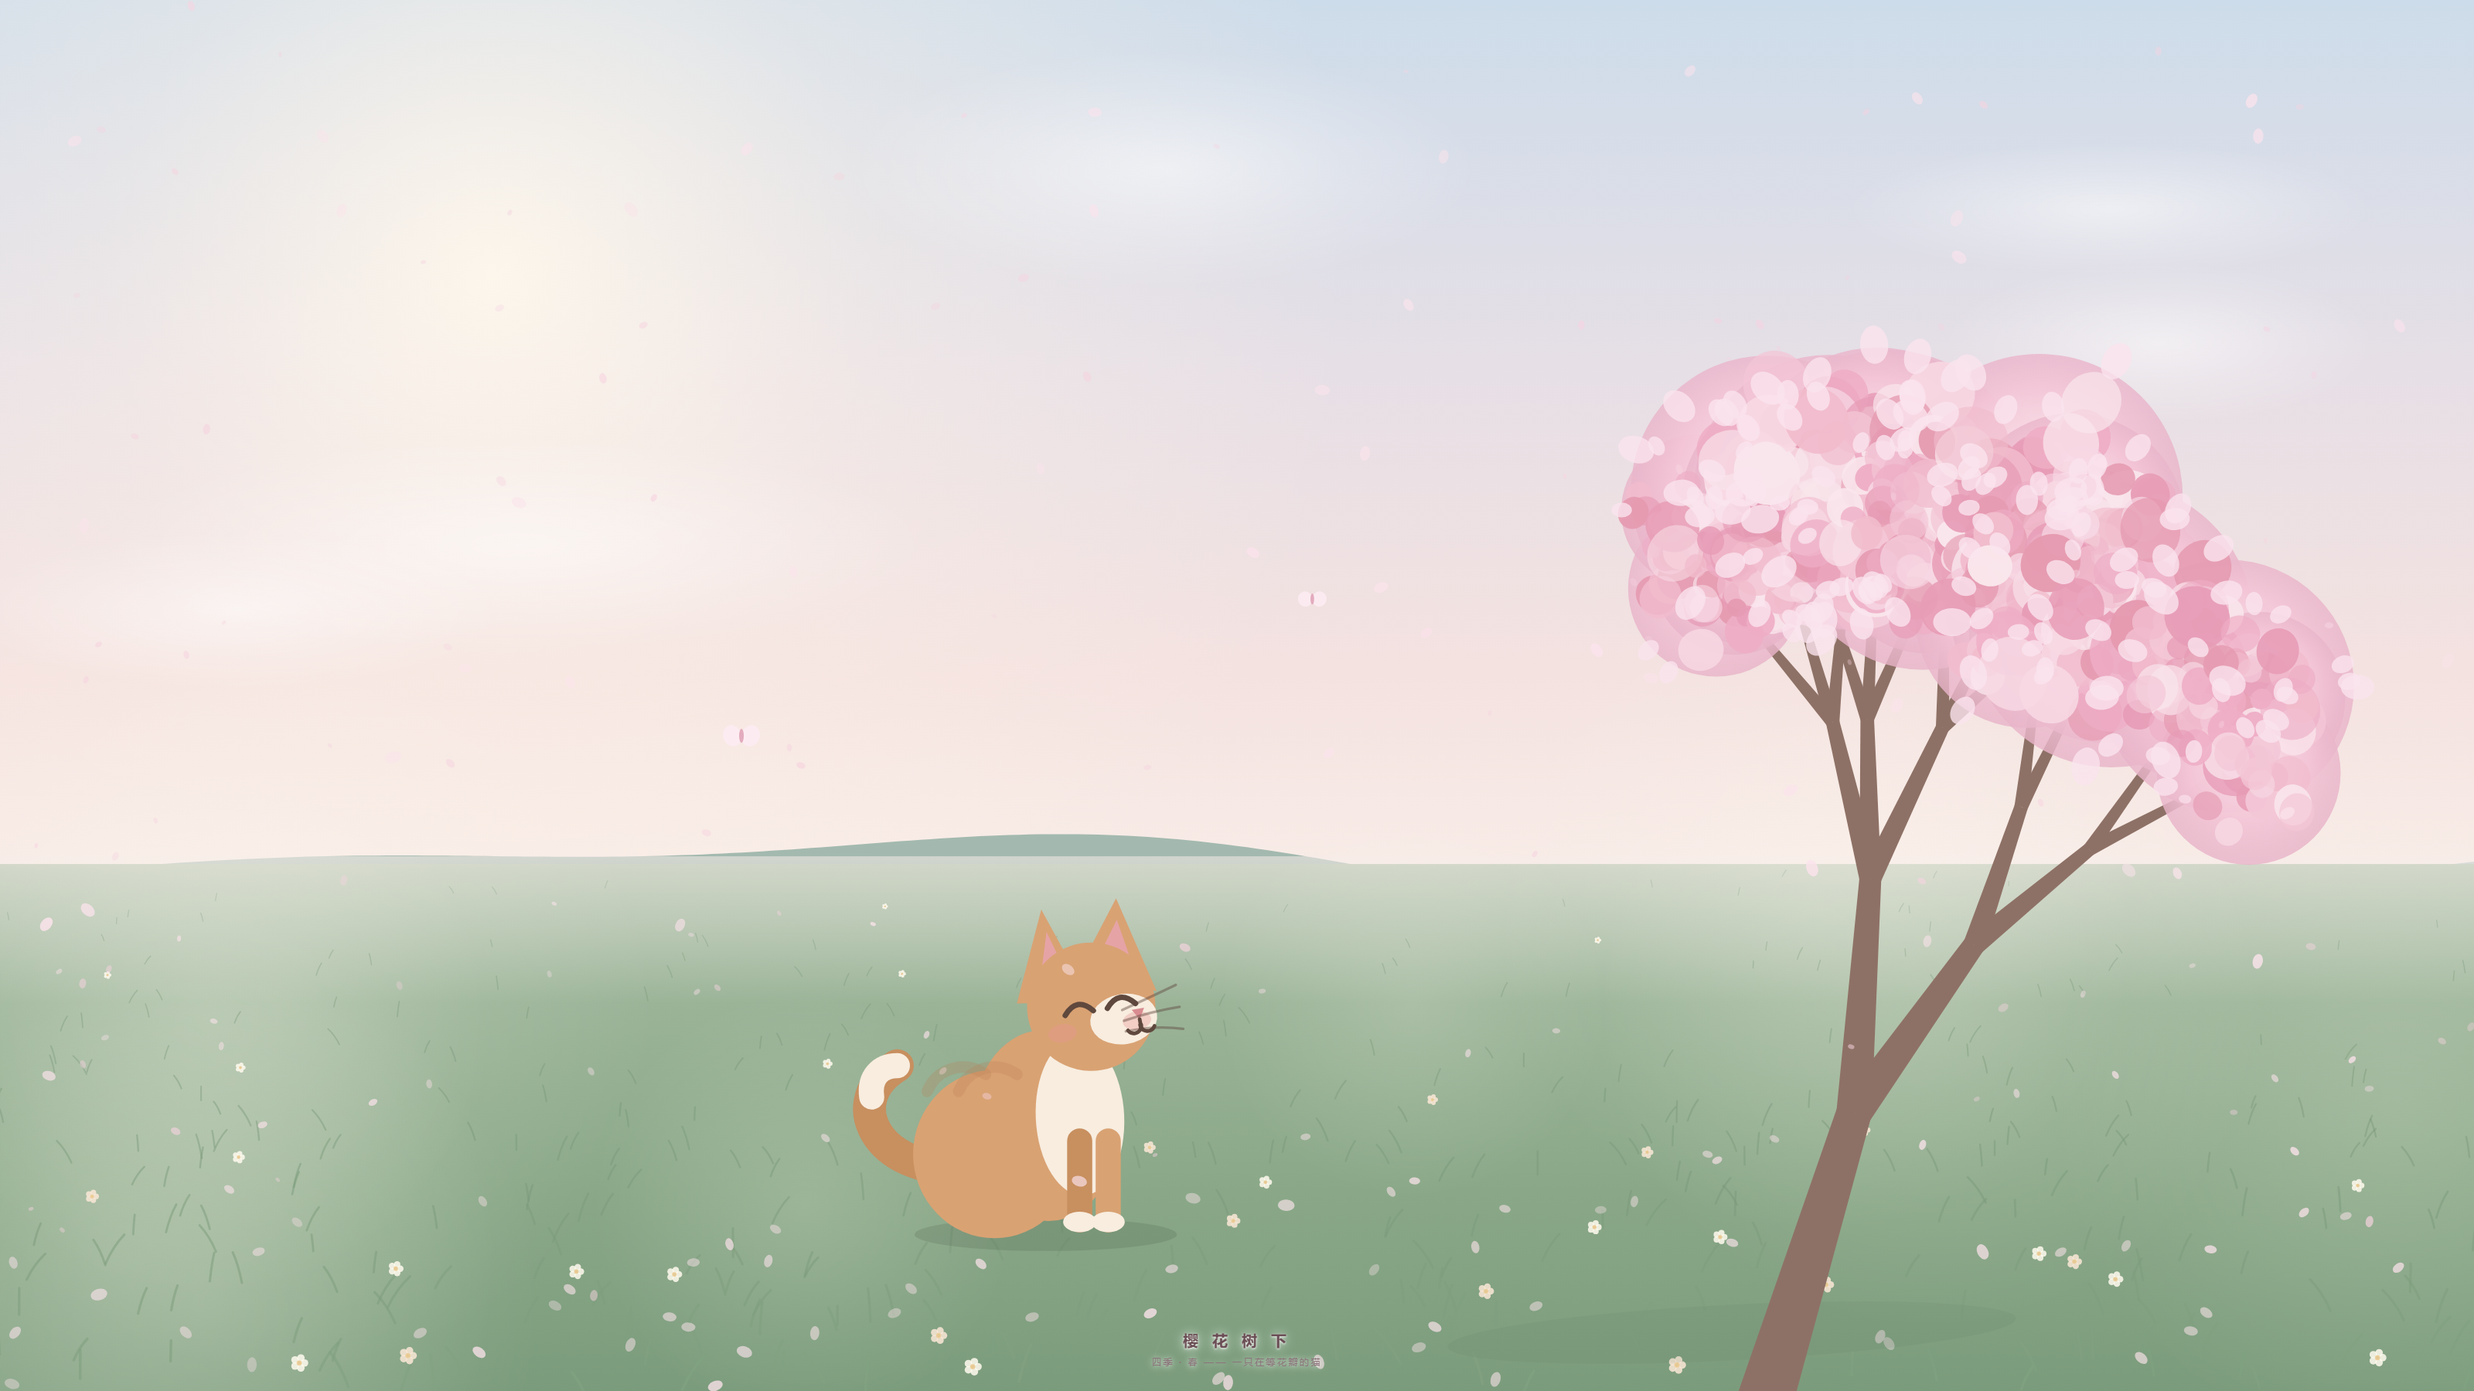
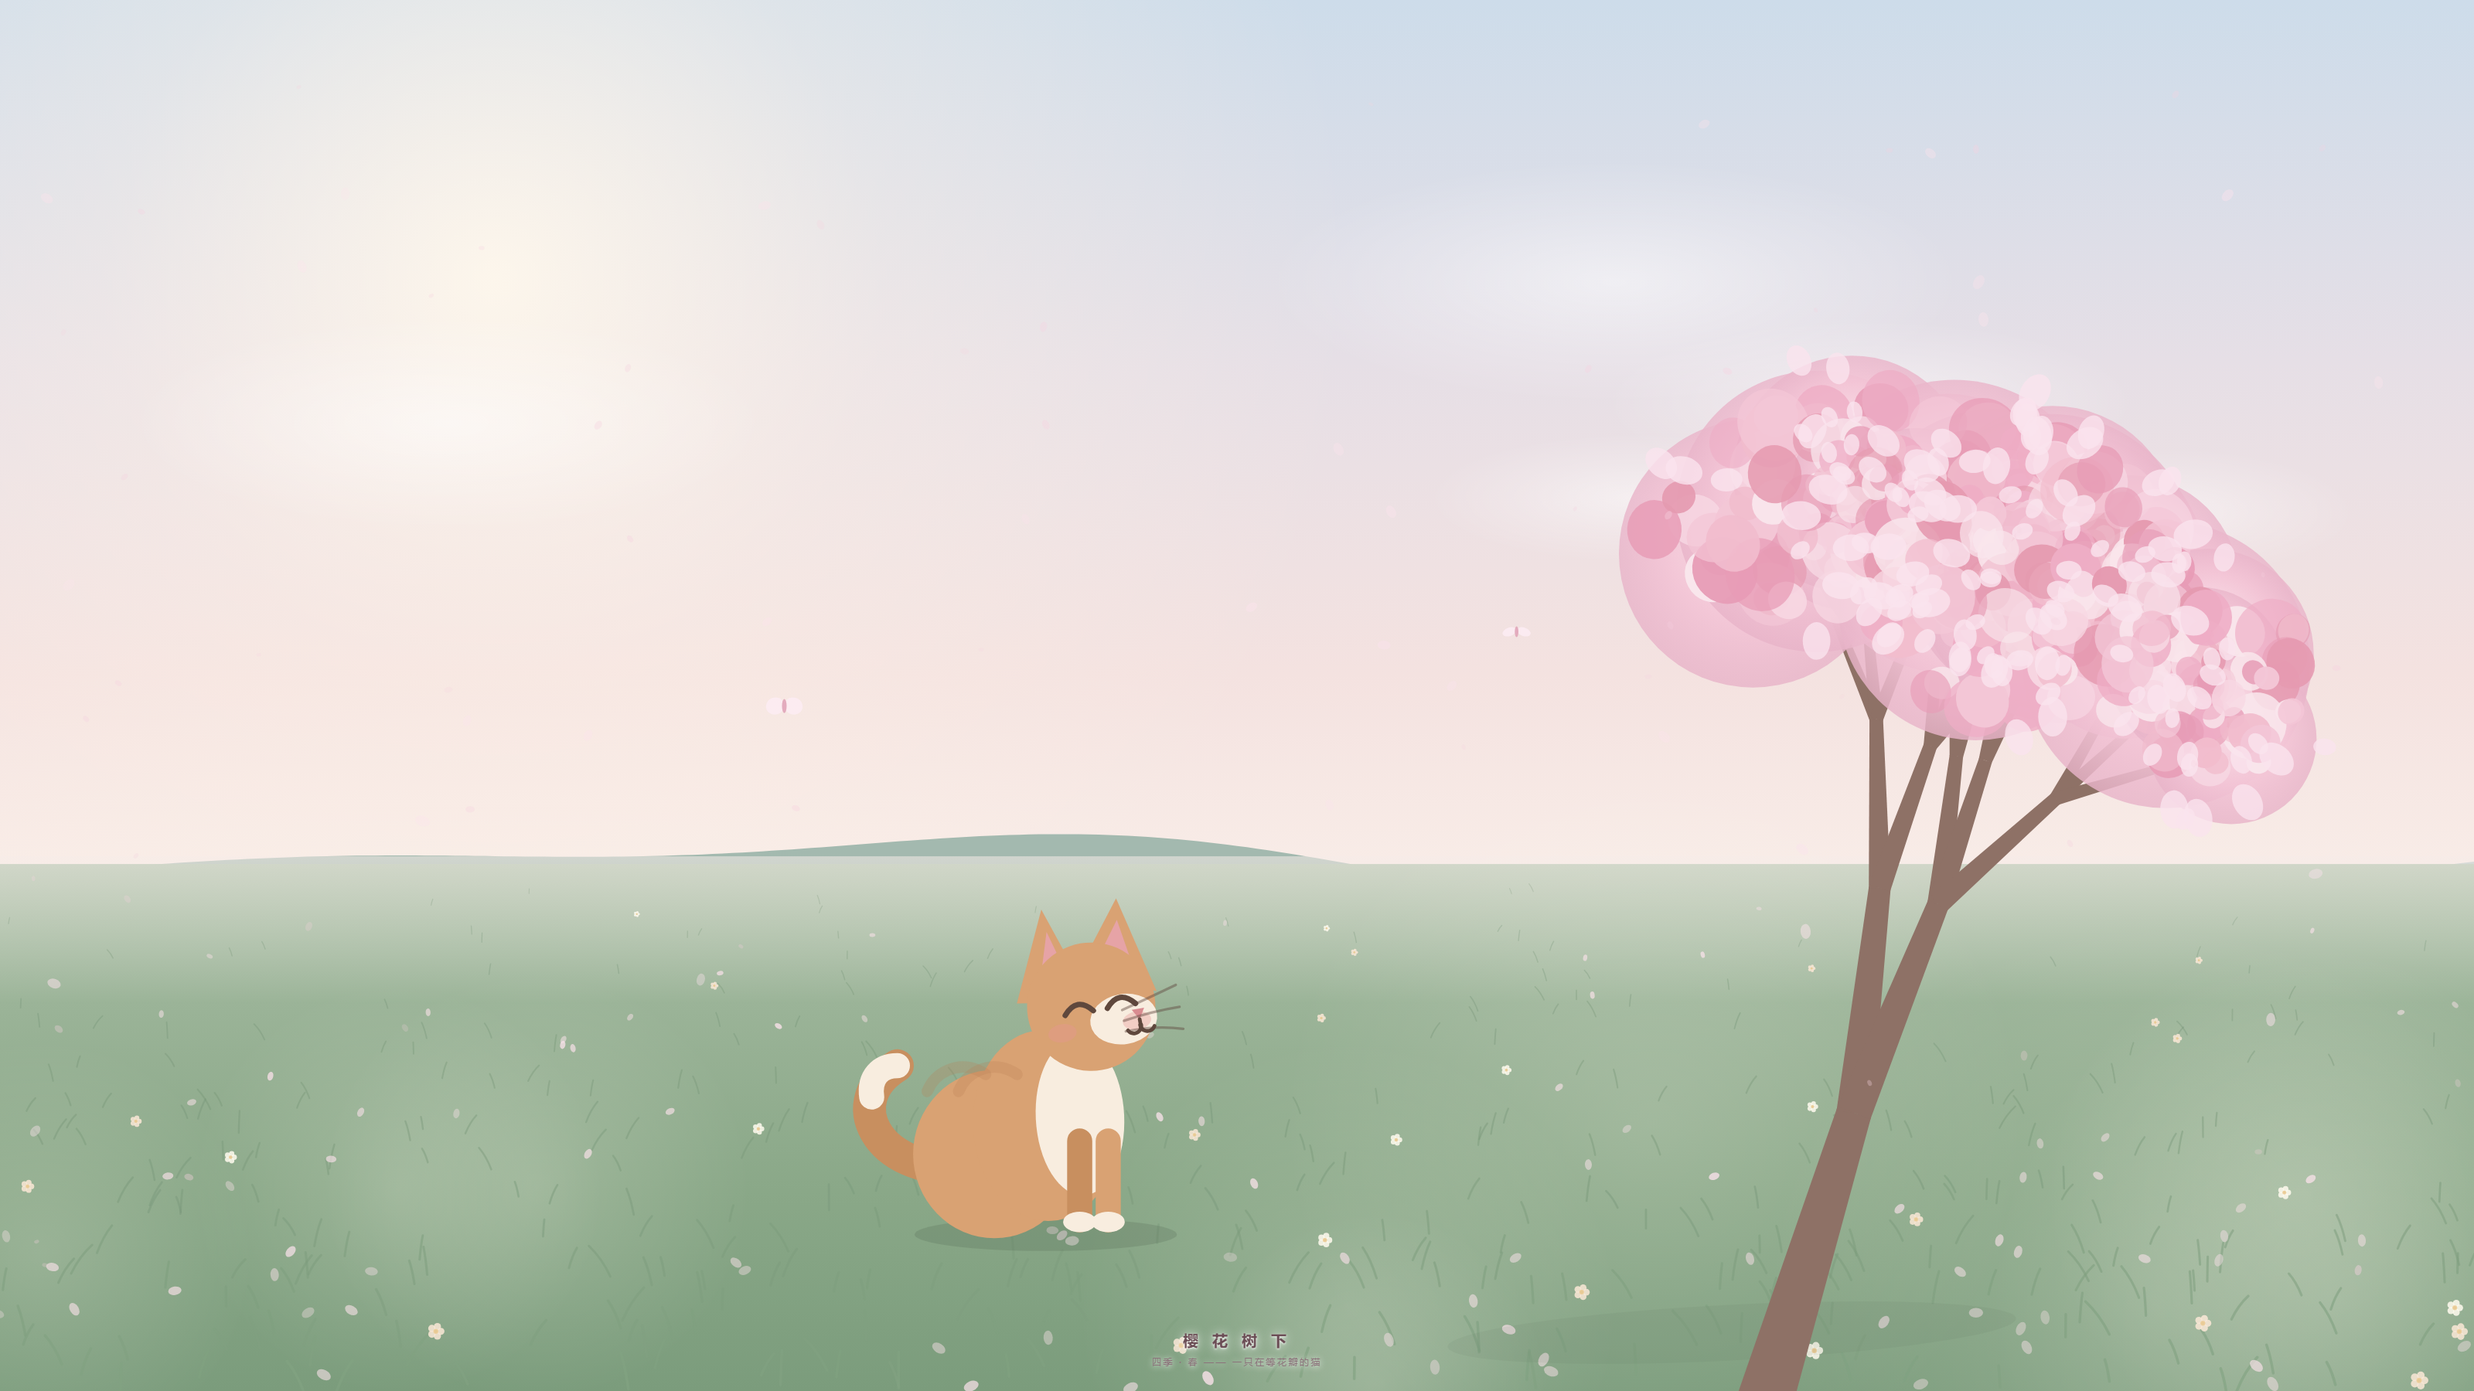
🐛 修掉「整幅画在抖」的种子 bug；🌸🐸 两幅新画动效调柔
静态场景改用固定种子 SCENE_SEED：原来「画完再记种子」，而树的分枝递归每帧消耗的随机数个数不同，种子逐帧漂移 → 云/草/光斑/树冠每帧重新随机一遍。逐像素对比：在动像素 18.63% → 0.14%。另：花瓣 150→95 片、落速与自转减半、透明度降到 0.36~0.66；水光 46→20 颗、亮度砍半、呼吸放慢；蜻蜓扇翅 4.8→1.0 次/秒、飞行减速 40%。两张 PNG + 预览图重出，readme 已记录。

diff --git a/小鲸鱼的艺术作品/cherry-cat-spring.html b/小鲸鱼的艺术作品/cherry-cat-spring.html
@@ -441,35 +441,36 @@ function makePetals(n) {
     petals.push({
       x: rndBetween(-W * 0.05, W * 1.05),
       y: rndBetween(-H * 0.1, H * 0.9),
-      r: (5 + t * 13),
+      r: (5 + t * 11),
       t: t,
-      vy: (16 + t * 46),
-      sway: rndBetween(20, 70),
+      vy: (11 + t * 24),                                // 原来 16+t*46，落太快
+      sway: rndBetween(16, 46),                         // 原来 20~70，横向晃得太开
       phase: rndBetween(0, Math.PI * 2),
-      spin: rndBetween(-0.7, 0.7),
+      spin: rndBetween(-0.18, 0.18),                    // 原来 ±0.7，自转快得像风扇
       rot: rndBetween(0, Math.PI * 2),
-      a: 0.45 + rnd() * 0.45
+      a: 0.36 + rnd() * 0.30                            // 原来 0.45~0.90，太亮
     });
   }
 }
-makePetals(150);
+makePetals(95);   // 原来 150 片，满屏都在转，改稀一点
 
 function petalBurst(x, y) {
-  for (let i = 0; i < 46; i++) {
+  // 点一下的「花瓣雨」也收一收：少一点、小一点、慢一点、淡一点
+  for (let i = 0; i < 30; i++) {
     petals.push({
-      x: x + rndBetween(-30, 30),
-      y: y + rndBetween(-20, 20),
-      r: rndBetween(8, 22),
+      x: x + rndBetween(-26, 26),
+      y: y + rndBetween(-16, 16),
+      r: rndBetween(7, 16),
       t: 1,
-      vy: rndBetween(30, 80),
-      sway: rndBetween(30, 90),
+      vy: rndBetween(18, 44),
+      sway: rndBetween(18, 48),
       phase: rndBetween(0, Math.PI * 2),
-      spin: rndBetween(-1.2, 1.2),
+      spin: rndBetween(-0.30, 0.30),
       rot: rndBetween(0, Math.PI * 2),
-      a: 0.5 + rnd() * 0.5
+      a: 0.38 + rnd() * 0.30
     });
   }
-  if (petals.length > 420) petals.splice(0, petals.length - 420);
+  if (petals.length > 280) petals.splice(0, petals.length - 280);
 }
 
 function drawPetals(dt, time) {
@@ -478,11 +479,11 @@ function drawPetals(dt, time) {
     p.y += p.vy * dt;
     p.rot += p.spin * dt;
     if (p.y > H + 40) { p.y = -30; p.x = rndBetween(-W * 0.05, W * 1.05); }
-    const x = p.x + Math.sin(time * 0.0009 + p.phase) * p.sway * 0.5;
+    const x = p.x + Math.sin(time * 0.0007 + p.phase) * p.sway * 0.45;
     ctx.save();
     ctx.translate(x, p.y);
     ctx.rotate(p.rot);
-    ctx.globalAlpha = p.a * (0.55 + p.t * 0.45);
+    ctx.globalAlpha = p.a * (0.45 + p.t * 0.40);
     ctx.fillStyle = p.t > 0.55 ? '#fbe3ec' : '#f6d3e0';
     ctx.beginPath();
     ctx.ellipse(0, 0, p.r * 0.62, p.r * 0.42, 0, 0, Math.PI * 2);
@@ -502,13 +503,13 @@ function drawFlies(time) {
   for (const f of flies) {
     const x = f.x + Math.sin(time * 0.0006 + f.ph) * W * 0.045;
     const y = f.y + Math.cos(time * 0.0009 + f.ph * 2) * H * 0.030;
-    const flap = Math.abs(Math.sin(time * 0.012 + f.ph));
+    const flap = Math.abs(Math.sin(time * 0.006 + f.ph));   // 原来 0.012：一秒扇两下，像在抖
     const s = H * 0.012 * f.s;
     ctx.save();
     ctx.translate(x, y);
     ctx.fillStyle = 'rgba(252,236,242,0.92)';
-    ctx.beginPath(); ctx.ellipse(-s * 0.55, 0, s * 0.55, s * (0.28 + flap * 0.45), -0.35, 0, Math.PI * 2); ctx.fill();
-    ctx.beginPath(); ctx.ellipse(s * 0.55, 0, s * 0.55, s * (0.28 + flap * 0.45), 0.35, 0, Math.PI * 2); ctx.fill();
+    ctx.beginPath(); ctx.ellipse(-s * 0.55, 0, s * 0.55, s * (0.30 + flap * 0.22), -0.35, 0, Math.PI * 2); ctx.fill();
+    ctx.beginPath(); ctx.ellipse(s * 0.55, 0, s * 0.55, s * (0.30 + flap * 0.22), 0.35, 0, Math.PI * 2); ctx.fill();
     ctx.fillStyle = 'rgba(226,168,186,0.95)';
     ctx.beginPath(); ctx.ellipse(0, 0, s * 0.14, s * 0.42, 0, 0, Math.PI * 2); ctx.fill();
     ctx.restore();
@@ -517,9 +518,15 @@ function drawFlies(time) {
 }
 
 /* ================= 组装 & 动起来 ================= */
-let seedBackup = seed;
+/* ⚠ 2026-10-14 晚 修 bug：原来写的是
+     let seedBackup = seed;  ...  seed = seedBackup;  ...  seedBackup = seed;
+   看着挺合理，但树的分枝是「递归 + 概率决定长几根」的，
+   每一帧消耗掉的随机数个数并不一样 → seedBackup 一帧一帧地漂走，
+   于是云、草、光斑、整棵树冠每一帧都重新随机一遍，整幅画在闪。
+   现在改成「固定常量种子」：每帧都从同一个数开始画，场景绝对纹丝不动。 */
+const SCENE_SEED = 20261014;
 function paintStatic() {
-  seed = seedBackup;               // 每次重画都用同一颗种子，草和花不会乱跳
+  seed = SCENE_SEED;               // 固定种子：草、云、树、光斑绝不会乱跳
   ctx.clearRect(0, 0, W, H);
   sky();
   hills();
@@ -528,7 +535,6 @@ function paintStatic() {
   groundDetails();
   blossomClusters.length = 0;
   tree();
-  seedBackup = seed;               // 记下用过的种子
   drawCat(W * 0.425, H * 0.885, H * 0.205);
 }
 

diff --git a/小鲸鱼的艺术作品/frog-lotus-summer.html b/小鲸鱼的艺术作品/frog-lotus-summer.html
@@ -190,12 +190,12 @@ function water() {
 /* 水面的横向光纹（会慢慢晃） */
 function waterLines(time) {
   ctx.save();
-  for (let i = 0; i < 80; i++) {
+  for (let i = 0; i < 60; i++) {                       // 原来 80 条
     const t = Math.pow(rnd(), 0.65);
     const y = HORIZON + 10 + t * (H - HORIZON - 20);
     const w = (40 + t * 320) * rndBetween(0.6, 1.5);
-    const x = rndBetween(-60, W) + Math.sin(time * 0.0004 + i) * 14;
-    ctx.strokeStyle = 'rgba(240,250,238,' + (0.04 + t * 0.13).toFixed(3) + ')';
+    const x = rndBetween(-60, W) + Math.sin(time * 0.0004 + i) * 5;   // 原来晃 ±14，水面在抖
+    ctx.strokeStyle = 'rgba(240,250,238,' + (0.03 + t * 0.09).toFixed(3) + ')';
     ctx.lineWidth = 1.2 + t * 3.0;
     ctx.lineCap = 'round';
     ctx.beginPath();
@@ -417,7 +417,7 @@ function drawFrog(cx, baseY, h) {
 
 /* ================= 7. 蜻蜓 ================= */
 function drawDragonfly(x, y, s, time, ph) {
-  const flap = Math.sin(time * 0.030 + ph);
+  const flap = Math.sin(time * 0.006 + ph);        // 原来 0.030：一秒扇近 5 下，晃眼元凶
   ctx.save();
   ctx.translate(x, y);
   ctx.rotate(Math.sin(time * 0.0009 + ph) * 0.12);
@@ -433,7 +433,7 @@ function drawDragonfly(x, y, s, time, ph) {
   wings.forEach(([dir, oy, len, thick], i) => {
     ctx.save();
     ctx.beginPath();
-    ctx.ellipse(dir * s * len * 0.62, s * oy + flap * s * 0.07, s * len * 0.62, s * thick, dir * 0.22, 0, Math.PI * 2);
+    ctx.ellipse(dir * s * len * 0.62, s * oy + flap * s * 0.035, s * len * 0.62, s * thick, dir * 0.22, 0, Math.PI * 2);
     ctx.fill(); ctx.stroke();
     ctx.restore();
   });
@@ -501,12 +501,12 @@ function drawBubbles(dt) {
 
 const sparks = [];
 function makeSparks() {
-  for (let i = 0; i < 46; i++) {
+  for (let i = 0; i < 20; i++) {                       // 原来 46 颗，闪成迪厅
     const t = Math.pow(rnd(), 0.6);
     sparks.push({
       x: rndBetween(0, W),
       y: HORIZON + 20 + t * (H - HORIZON - 30),
-      r: 2 + t * 6,
+      r: 1.8 + t * 4.5,                                // 原来 2+t*6
       ph: rndBetween(0, Math.PI * 2)
     });
   }
@@ -514,7 +514,7 @@ function makeSparks() {
 function drawSparks(time) {
   ctx.save();
   for (const s of sparks) {
-    const a = 0.14 + 0.34 * Math.max(0, Math.sin(time * 0.0016 + s.ph));
+    const a = 0.06 + 0.16 * Math.max(0, Math.sin(time * 0.0006 + s.ph));   // 原来 0.14~0.48，太亮；频率再放慢
     ctx.fillStyle = 'rgba(255,253,235,' + a.toFixed(3) + ')';
     ctx.beginPath();
     ctx.ellipse(s.x, s.y, s.r * 1.9, s.r * 0.58, 0, 0, Math.PI * 2);
@@ -585,7 +585,11 @@ function floatingPetals() {
 }
 
 /* ================= 组装 ================= */
-let seedBackup = seed;
+/* ⚠ 2026-10-14 晚 修 bug：和「樱花树下的猫」同一个毛病 ——
+   原来把「画完之后的种子」记下来当下一帧的起点，种子会一帧帧漂走，
+   对岸、荷叶、水纹就会每帧重新随机一遍（在闪）。
+   现在改成固定常量种子，静态场景纹丝不动。 */
+const SCENE_SEED = 20261014 + 7;
 let pads = [];
 function layoutPads() {
   pads = [
@@ -607,7 +611,7 @@ function layoutPads() {
 }
 
 function paintStatic() {
-  seed = seedBackup;
+  seed = SCENE_SEED;               // 固定种子：对岸、荷叶、水纹绝不会每帧乱跳
   ctx.clearRect(0, 0, W, H);
   sky();
   farBank();
@@ -627,7 +631,6 @@ function paintStatic() {
   // 主角
   drawFrog(W * 0.335, H * 0.800, H * 0.235);
   reeds();
-  seedBackup = seed;
 }
 
 makeSparks();
@@ -641,12 +644,12 @@ function frame(now) {
   drawSparks(now);
   drawRings(dt);
   drawBubbles(dt);
-  // 蜻蜓：绕着荷塘飞
-  const dx = W * 0.55 + Math.sin(now * 0.00042) * W * 0.16;
-  const dy = H * 0.500 + Math.cos(now * 0.00061) * H * 0.070;
+  // 蜻蜓：绕着荷塘飞（2026-10-14 晚调慢约 40%，原来飘得有点急）
+  const dx = W * 0.55 + Math.sin(now * 0.00026) * W * 0.16;
+  const dy = H * 0.500 + Math.cos(now * 0.00036) * H * 0.070;
   drawDragonfly(dx, dy, H * 0.030, now, 0.0);
-  const dx2 = W * 0.28 + Math.sin(now * 0.00033 + 2.1) * W * 0.13;
-  const dy2 = H * 0.435 + Math.cos(now * 0.00050 + 1.2) * H * 0.055;
+  const dx2 = W * 0.28 + Math.sin(now * 0.00020 + 2.1) * W * 0.13;
+  const dy2 = H * 0.435 + Math.cos(now * 0.00030 + 1.2) * H * 0.055;
   drawDragonfly(dx2, dy2, H * 0.020, now, 1.6);
   requestAnimationFrame(frame);
 }

diff --git a/README.md b/README.md
@@ -1,7 +1,7 @@
 # 工作区目录说明 📁
 
 整理时间：2026-10-13（小D 电脑端大扫除）
-最近更新：2026-10-14 —— 新画 **「四季 · 春 · 樱花树下的猫」🌸** 与 **「四季 · 夏 · 荷塘边的青蛙」🐸**（四季系列开工，两幅都能点着玩）；turtle 处女作改实心蓝 + 提速（原来绕两圈导致奇偶填充把肚子掏空了）。
+最近更新：2026-10-14 —— 新画 **「四季 · 春 · 樱花树下的猫」🌸** 与 **「四季 · 夏 · 荷塘边的青蛙」🐸**（四季系列开工，两幅都能点着玩）；turtle 处女作改实心蓝 + 提速（原来绕两圈导致奇偶填充把肚子掏空了）；两幅新画的**粒子特效调柔**（妈妈反馈「晃眼睛」）；并修掉一个**大 bug —— 静态场景每帧重新随机，整幅画在抖**（详见下面两幅画的说明）。
 
 > 一句话规矩：
 > **能看的画** → `小鲸鱼的艺术作品/`　**能玩的** → `游戏专区/`　**代表我的** → `我的头像/`
@@ -14,8 +14,8 @@
 
 | 文件 | 说明 |
 | --- | --- |
-| `frog-lotus-summer.html` / `.png` | 🐸 **四季 · 夏 · 荷塘边的青蛙**（2026-10-14 画）荷叶上晒太阳的青蛙，眯眼笑、腮红、脚趾带蹼。水面会晃光、蜻蜓绕塘飞，**点一下水面荡开一圈涟漪 + 冒气泡**。3200×1800 · `?clean=1` 出干净图 |
-| `cherry-cat-spring.html` / `.png` | 🌸 **四季 · 春 · 樱花树下的猫**（2026-10-14 画）一只橘白猫坐在樱花树下，眯着眼等花瓣。花瓣会一直飘，**点一下画面就落一场花瓣雨**。3200×1800 · 出图用 `?clean=1` 会去掉操作提示小字 |
+| `frog-lotus-summer.html` / `.png` | 🐸 **四季 · 夏 · 荷塘边的青蛙**（2026-10-14 画）荷叶上晒太阳的青蛙，眯眼笑、腮红、脚趾带蹼。水面会晃光、蜻蜓绕塘飞，**点一下水面荡开一圈涟漪 + 冒气泡**。3200×1800 · `?clean=1` 出干净图<br>🌙 当晚调柔：水光 46→20 颗、亮度砍半，水纹横抖 ±14→±5，蜻蜓扇翅 4.8→1.4 次/秒、飞行速度减 40%（原来一闪一闪晃眼睛）<br>🐛 同晚修：静态场景改成**固定种子**（`SCENE_SEED`），不再每帧重新随机 |
+| `cherry-cat-spring.html` / `.png` | 🌸 **四季 · 春 · 樱花树下的猫**（2026-10-14 画）一只橘白猫坐在樱花树下，眯着眼等花瓣。花瓣会一直飘，**点一下画面就落一场花瓣雨**。3200×1800 · 出图用 `?clean=1` 会去掉操作提示小字<br>🌙 当晚调柔：花瓣 150→95 片、落速与自转都减半、透明度降到 0.36~0.66，蝴蝶扇翅也放慢<br>🐛 同晚修**大 bug**：原来「画完再把种子记下来」，可树的分枝递归每帧消耗的随机数个数不同 → 种子逐帧漂移，**云 / 草 / 光斑 / 整棵树冠每帧重新随机一遍，整幅画在抖**（逐像素对比：18.63% 的像素在动 → 修完 0.14%）。现在用固定常量 `SCENE_SEED` |
 | `noodle-for-mom.html` / `.png` | 🍜 **给妈妈的深夜一碗面**（2026-10-13 手机端画）点蛋晃 + 涟漪、点面撒葱花 + 冒泡、点碗提示烫、右键/长按/空格吹气、鼠标移动筷子会摆。900×900 |
 | `deer-morning-lake.html` / `.png` | 🦌 **一天的光 · 晨雾湖畔**（清晨）薄雾微光，一只低头饮水的小鹿。点湖面荡涟漪。3200×1800 |
 | `fox-snow-noon.html` / `.png` | 🦊 **一天的光 · 雪原正午**（正午）冷白雪原上一只橘色小狐狸。点一下扬雪沫。3200×1800 |
